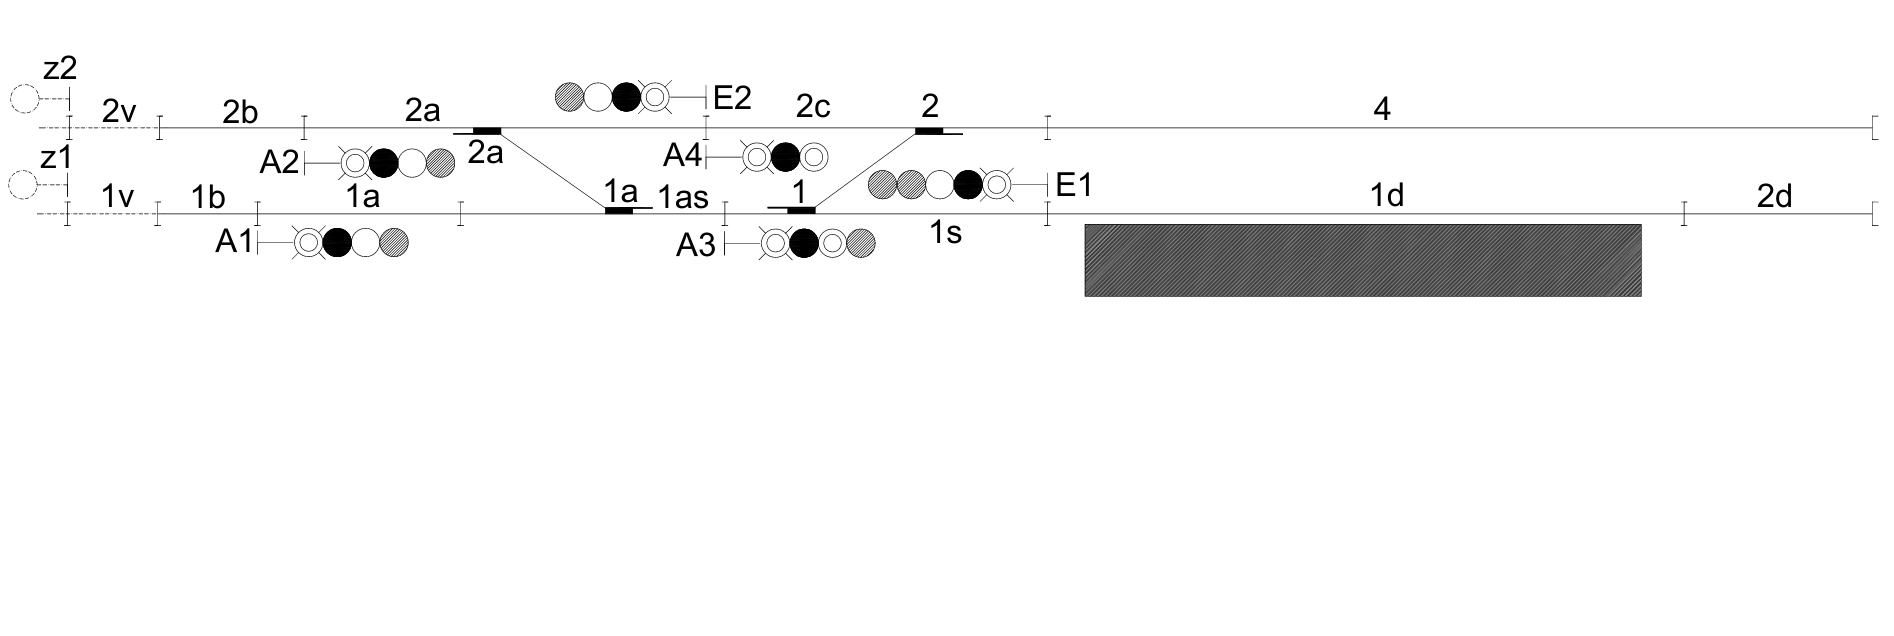
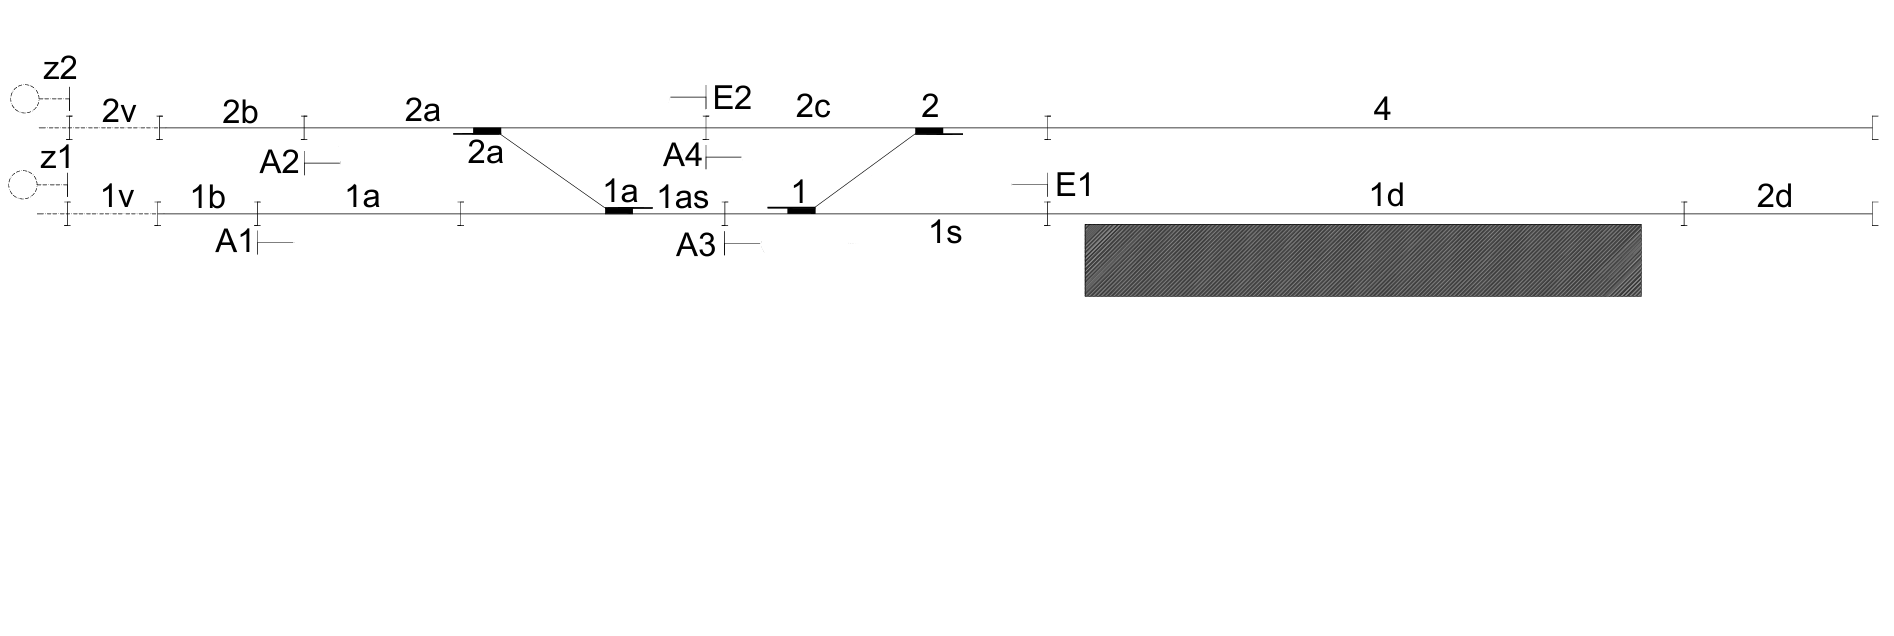
add track section & signal simulation

diff --git a/src/gui.py b/src/gui.py
@@ -1,3 +1,4 @@
+from time import sleep
 import tkinter as tk
 from tkinter import ttk
 from tkinter import messagebox
@@ -40,6 +41,271 @@ route_entry_w = canvas.create_window(WIDTH-20, HEIGHT-120, anchor=tk.NE, window=
 cur_route_l = tk.Label(root, text="Current route: NONE")
 cur_route_w = canvas.create_window(1100, HEIGHT-160, anchor=tk.NE, window=cur_route_l)
 
+# set track lines
+track_kwargs = {
+    'width': 5,
+}
+
+tr_2v = canvas.create_line(45, 80,
+                           100, 80,
+                           fill='gray',
+                           **track_kwargs)
+
+tr_2b = canvas.create_line(100, 80,
+                           195, 80,
+                           fill='gray',
+                           **track_kwargs)
+
+tr_2a = canvas.create_line(195, 80,
+                           448, 80,
+                           fill='gray',
+                           **track_kwargs)
+
+tr_2c = canvas.create_line(448, 80,
+                           663, 80,
+                           fill='gray',
+                           **track_kwargs)
+
+tr_4 = canvas.create_line(663, 80,
+                          1185, 80,
+                          fill='gray',
+                          **track_kwargs)
+
+tr_1v = canvas.create_line(44, 134,
+                           100, 134,
+                           fill='gray',
+                           **track_kwargs)
+
+tr_1b = canvas.create_line(100, 134,
+                           164, 134,
+                           fill='gray',
+                           **track_kwargs)
+
+tr_1a = canvas.create_line(164, 134,
+                           292, 134,
+                           fill='gray',
+                           **track_kwargs)
+
+tr_1as = canvas.create_line(292, 134,
+                            460, 134,
+                            fill='gray',
+                            **track_kwargs)
+
+tr_1s = canvas.create_line(460, 134,
+                           664, 134,
+                           fill='gray',
+                           **track_kwargs)
+
+tr_1d = canvas.create_line(664, 134,
+                           1068, 134,
+                           fill='gray',
+                           **track_kwargs)
+
+tr_2d = canvas.create_line(1068, 134,
+                           1185, 134,
+                           fill='gray',
+                           **track_kwargs)
+
+track_sections = {
+    'tr_2v':  tr_2v,
+    'tr_2b':  tr_2b,
+    'tr_2a':  tr_2a,
+    'tr_2c':  tr_2c,
+    'tr_4':   tr_4,
+    'tr_1v':  tr_1v,
+    'tr_1b':  tr_1b,
+    'tr_1a':  tr_1a,
+    'tr_1as': tr_1as,
+    'tr_1s':  tr_1s,
+    'tr_1d':  tr_1d,
+    'tr_2d':  tr_2d
+}
+
+# set signals
+sg_A2_red_c = (225, 102)
+sg_A2_red = canvas.create_oval(sg_A2_red_c[0] - 9,
+                               sg_A2_red_c[1] - 9,
+                               sg_A2_red_c[0] + 9,
+                               sg_A2_red_c[1] + 9,
+                               fill='red')
+
+sg_A2_green_c = (243, 102)
+sg_A2_green = canvas.create_oval(sg_A2_green_c[0] - 9,
+                                 sg_A2_green_c[1] - 9,
+                                 sg_A2_green_c[0] + 9,
+                                 sg_A2_green_c[1] + 9,
+                                 fill='light gray')
+
+sg_E2_red_c = (414, 61)
+sg_E2_red = canvas.create_oval(sg_E2_red_c[0] - 9,
+                               sg_E2_red_c[1] - 9,
+                               sg_E2_red_c[0] + 9,
+                               sg_E2_red_c[1] + 9,
+                               fill='red')
+
+sg_E2_green_c = (396, 61)
+sg_E2_green = canvas.create_oval(sg_E2_green_c[0] - 9,
+                                 sg_E2_green_c[1] - 9,
+                                 sg_E2_green_c[0] + 9,
+                                 sg_E2_green_c[1] + 9,
+                                 fill='light gray')
+
+sg_A4_red_c = (479, 98)
+sg_A4_red = canvas.create_oval(sg_A4_red_c[0] - 9,
+                               sg_A4_red_c[1] - 9,
+                               sg_A4_red_c[0] + 9,
+                               sg_A4_red_c[1] + 9,
+                               fill='red')
+
+sg_A4_green_c = (497, 98)
+sg_A4_green = canvas.create_oval(sg_A4_green_c[0] - 9,
+                                 sg_A4_green_c[1] - 9,
+                                 sg_A4_green_c[0] + 9,
+                                 sg_A4_green_c[1] + 9,
+                                 fill='light gray')
+
+sg_E1_red_c = (631, 116)
+sg_E1_red = canvas.create_oval(sg_E1_red_c[0] - 9,
+                               sg_E1_red_c[1] - 9,
+                               sg_E1_red_c[0] + 9,
+                               sg_E1_red_c[1] + 9,
+                               fill='red')
+
+sg_E1_green_c = (613, 116)
+sg_E1_green = canvas.create_oval(sg_E1_green_c[0] - 9,
+                                 sg_E1_green_c[1] - 9,
+                                 sg_E1_green_c[0] + 9,
+                                 sg_E1_green_c[1] + 9,
+                                 fill='light gray')
+
+sg_A1_red_c = (195, 152)
+sg_A1_red = canvas.create_oval(sg_A1_red_c[0] - 9,
+                               sg_A1_red_c[1] - 9,
+                               sg_A1_red_c[0] + 9,
+                               sg_A1_red_c[1] + 9,
+                               fill='red')
+
+sg_A1_green_c = (213, 152)
+sg_A1_green = canvas.create_oval(sg_A1_green_c[0] - 9,
+                                 sg_A1_green_c[1] - 9,
+                                 sg_A1_green_c[0] + 9,
+                                 sg_A1_green_c[1] + 9,
+                                 fill='light gray')
+
+sg_A3_red_c = (491, 152)
+sg_A3_red = canvas.create_oval(sg_A3_red_c[0] - 9,
+                               sg_A3_red_c[1] - 9,
+                               sg_A3_red_c[0] + 9,
+                               sg_A3_red_c[1] + 9,
+                               fill='red')
+
+sg_A3_green_c = (509, 152)
+sg_A3_green = canvas.create_oval(sg_A3_green_c[0] - 9,
+                                 sg_A3_green_c[1] - 9,
+                                 sg_A3_green_c[0] + 9,
+                                 sg_A3_green_c[1] + 9,
+                                 fill='light gray')
+
+track_signals = {
+    'sg_A2_red':   sg_A2_red,
+    'sg_A2_green': sg_A2_green,
+    'sg_E2_red':   sg_E2_red,
+    'sg_E2_green': sg_E2_green,
+    'sg_A4_red':   sg_A4_red,
+    'sg_A4_green': sg_A4_green,
+    'sg_E1_red':   sg_E1_red,
+    'sg_E1_green': sg_E1_green,
+    'sg_A1_red':   sg_A1_red,
+    'sg_A1_green': sg_A1_green,
+    'sg_A3_red':   sg_A3_red,
+    'sg_A3_green': sg_A3_green
+}
+
+def simulate_route(route, can, sections, signals):
+    """
+    Simulate train movement on given route.
+    Assuming route is safe and valid.
+
+    """
+
+    section_time_coef = 10
+    route_sects = []
+    route_signals_red = []
+    route_signals_green = []
+
+    if route == 'A1 A3':
+        route_sects = ['tr_1a',
+                      'tr_1as']
+        route_signals_red = ['sg_A1_red',]
+        route_signals_green = ['sg_A1_green',]
+
+    elif route == 'A2 A3':
+        route_sects = ['tr_2a',
+                      'tr_1as']
+        route_signals_red = ['sg_A2_red',]
+        route_signals_green = ['sg_A2_green',]
+
+    elif route == 'A2 A4':
+        route_sects = ['tr_2a']
+        route_signals_red = ['sg_A2_red',]
+        route_signals_green = ['sg_A2_green',]
+
+    elif route == 'E1 z2':
+        route_sects = ['tr_1s',
+                      'tr_1as',
+                      'tr_2a',
+                      'tr_2b',
+                      'tr_2v']
+        route_signals_red = ['sg_E1_red',]
+        route_signals_green = ['sg_E1_green',]
+
+    elif route == 'E1 z1':
+        route_sects = ['tr_1s',
+                      'tr_1as',
+                      'tr_1a',
+                      'tr_1b',
+                      'tr_1v']
+        route_signals_red = ['sg_E1_red',]
+        route_signals_green = ['sg_E1_green',]
+
+    elif route == 'E2 z2':
+        route_sects = ['tr_2a',
+                      'tr_2b',
+                      'tr_2v']
+        route_signals_red = ['sg_E2_red',]
+        route_signals_green = ['sg_E2_green',]
+
+    for rs in route_sects:
+        can.itemconfig(sections[rs], fill='green')
+    
+    for sgg in route_signals_green:
+        can.itemconfig(signals[sgg], fill='green')
+    for sgr in route_signals_red:
+        can.itemconfig(signals[sgr], fill='light gray')
+    
+    for rs in route_sects:
+        print("Currently in section: {}".format(rs))
+        bounds = can.bbox(sections[rs])
+        section_length = bounds[2] - bounds[0]
+        can.itemconfig(sections[rs], fill='red')
+        print("length: {}".format(section_length))
+
+        wvar = tk.IntVar()
+        can.after(int(section_length * section_time_coef + 250),
+                  wvar.set, 1)
+        can.wait_variable(wvar)
+        
+        can.itemconfig(sections[rs], fill='green')
+
+    for rs in route_sects:
+        can.itemconfig(sections[rs], fill='gray')
+    
+    for sgg in route_signals_green:
+        can.itemconfig(signals[sgg], fill='light gray')
+    for sgr in route_signals_red:
+        can.itemconfig(signals[sgr], fill='red')
+        
+
 # set switchpoint indicators
 sp_1_open = ImageTk.PhotoImage(Image.open("sp_open.png").resize((40, 10), Image.ANTIALIAS).transpose(Image.FLIP_LEFT_RIGHT))
 sp_1_close = ImageTk.PhotoImage(Image.open("sp_close.png").resize((40, 10), Image.ANTIALIAS).transpose(Image.FLIP_LEFT_RIGHT))
@@ -67,19 +333,21 @@ sp_2a_i_w = canvas.create_window(286, 76, anchor=tk.NW, window=sp_2a_i_l)
 
 def set_route_clicked():
     route = route_entry.get()
-    print("set route <{route}>")
+    print("set route <{}>".format(route))
     if not route:
         return
     if len(route.split()) != 2 or route not in proc.elements[ROUTE]:
-        messagebox.showerror("Failure", "Invalid route <{route}>")
+        messagebox.showerror("Failure", "Invalid route <{}>".format(route))
     else:
         safe = proc.check_safety(ROUTE, route, SET)
         print(route, "is safe:", safe)
         if not safe:
-            messagebox.showerror("Failure", "Route <{route}> failed safety check")
+            messagebox.showerror("Failure", "Route <{}> failed safety check".format(route))
         else:
             proc.recv_message(message(ROUTE, route, SET))
-            cur_route_l.config(text="Current route: {proc.current_route}")
+            cur_route_l.config(text="Current route: {}".format(proc.current_route))
+            simulate_route(route, canvas, track_sections, track_signals)
+            clear_route_clicked()
 
 set_route_b = tk.Button(root, text="Set Route", command=set_route_clicked, width=22, height=1)
 set_route_w = canvas.create_window(WIDTH-20, HEIGHT-70, anchor=tk.NE, window=set_route_b)
